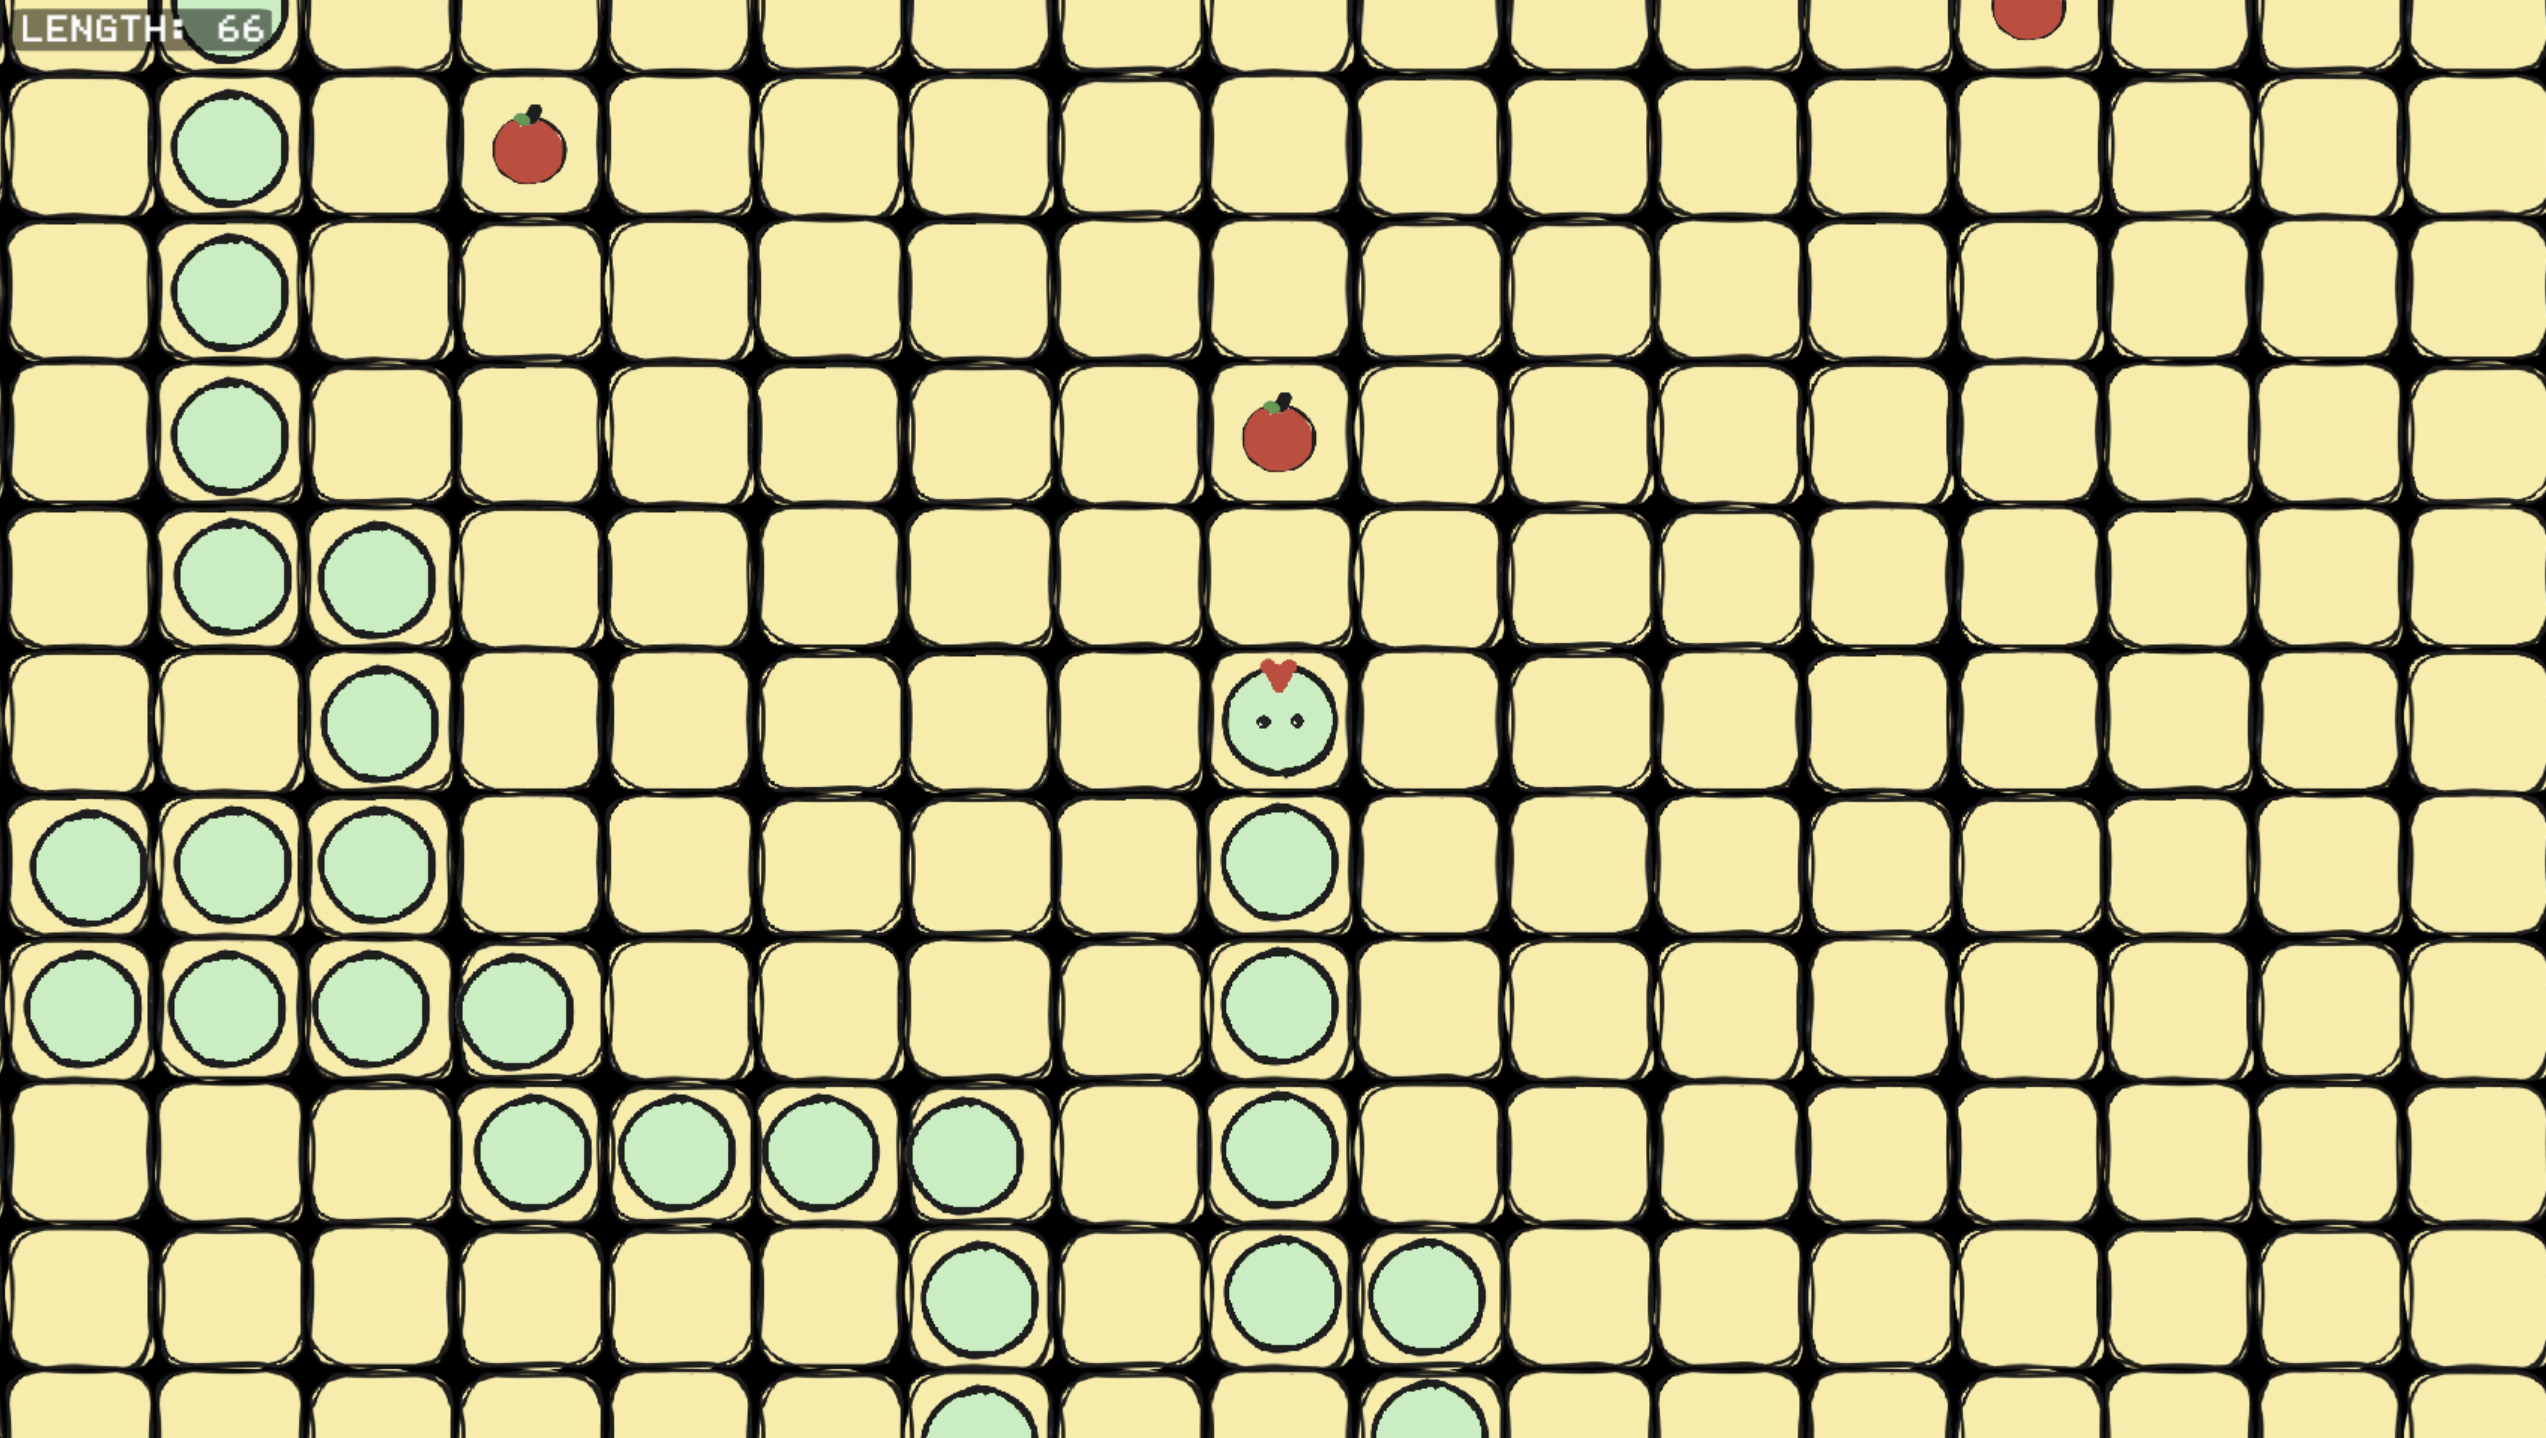
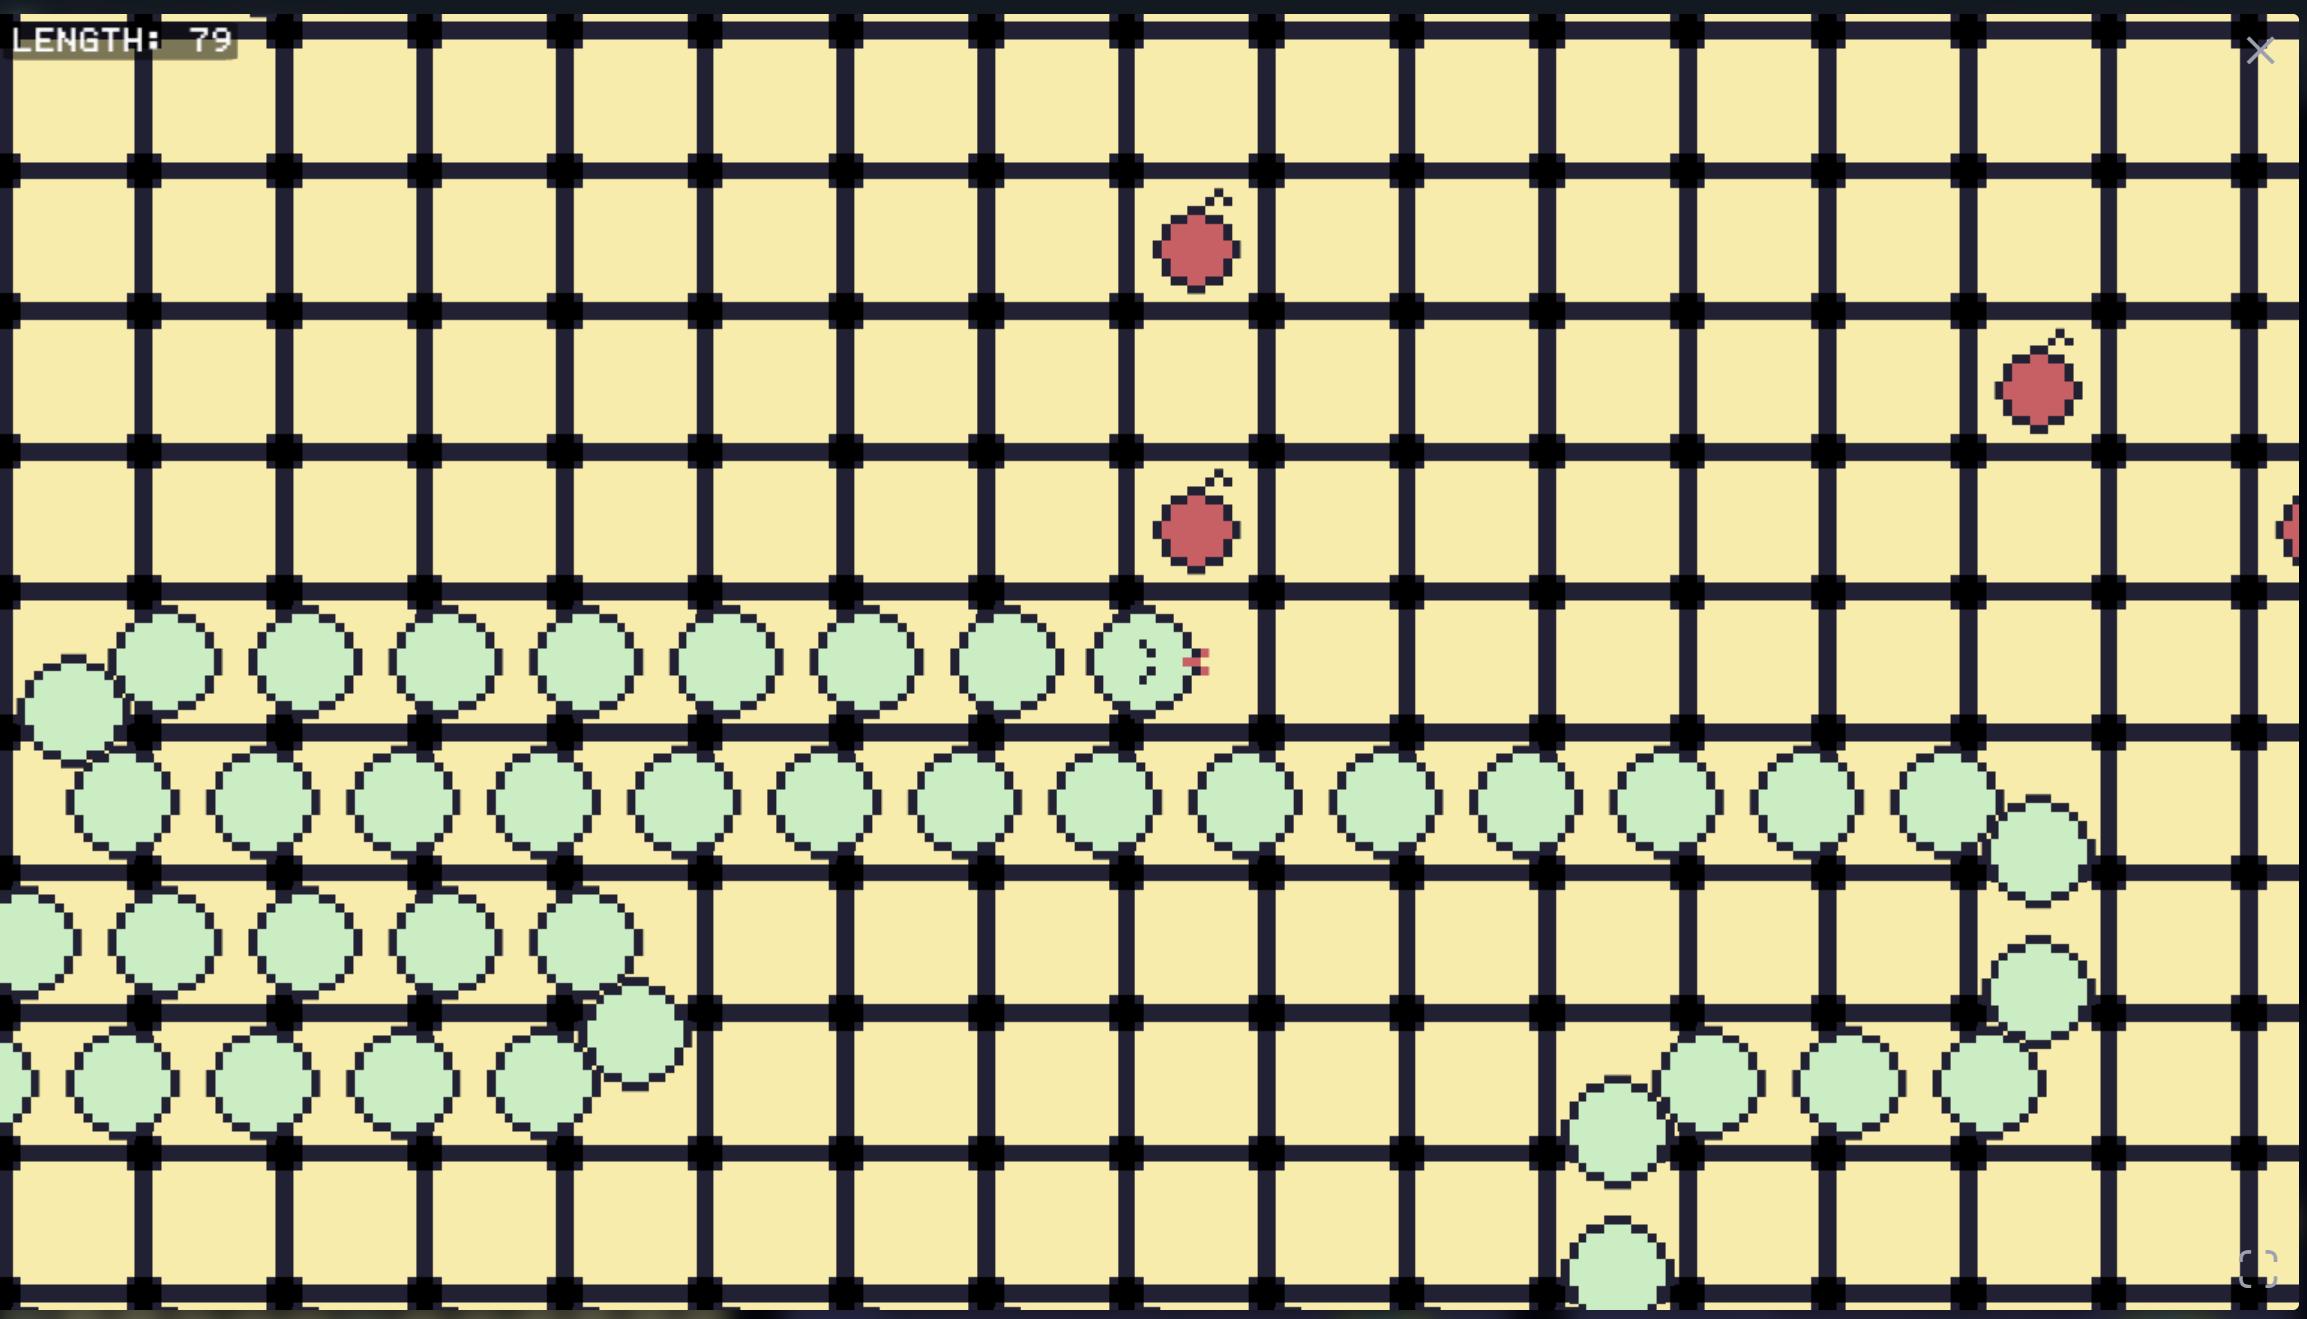
update

diff --git a/games/slither-slim/background-tiles.ts b/games/slither-slim/background-tiles.ts
@@ -1,6 +1,6 @@
 import * as PIXI from "pixi.js";
 import { ZLayer } from "./enum";
-import { BASE_PATH } from "./main";
+import { ASSET_SCALE, BASE_PATH } from "./main";
 
 export interface GameTiles {
    tiles: GameTile[];
@@ -12,11 +12,11 @@ export interface GameTiles {
 }
 
 interface CreateGameProps {
-   textures: PIXI.Texture[];
+   texture: PIXI.Texture;
    gridSize: { row: number; col: number };
 }
 
-export const createGameTiles = ({ gridSize, textures }: CreateGameProps): GameTiles => {
+export const createGameTiles = ({ gridSize, texture }: CreateGameProps): GameTiles => {
    const tiles: GameTile[] = [];
    const { row, col } = gridSize;
 
@@ -27,11 +27,9 @@ export const createGameTiles = ({ gridSize, textures }: CreateGameProps): GameTi
    });
 
    for (let i = 0; i < row * col; i++) {
-      const randomIndex = Math.floor(Math.random() * textures.length);
-      const texture = textures[randomIndex];
       const sprite = new PIXI.Sprite(texture);
 
-      sprite.scale.set(0.25);
+      sprite.scale.set(ASSET_SCALE);
       sprite.anchor.set(0.5, 0.5);
 
       const rowIdx = Math.floor(i / col);
@@ -112,10 +110,9 @@ const createGameTile = (sprite: PIXI.Sprite): GameTile => {
    return { sprite, getIndexPos };
 };
 
-export const loadTileTextures = async (): Promise<PIXI.Texture[]> => {
-   const arr = Array.from({ length: 5 });
-   const loadAsset = (str: string): Promise<PIXI.Texture> => PIXI.Assets.load(str);
-   const promises = arr.map((_, idx) => loadAsset(`${BASE_PATH}/box-${idx}.png`));
-   const assets = await Promise.all(promises);
-   return assets;
+export const loadTileTextures = async (): Promise<PIXI.Texture> => {
+   const assetPath = `${BASE_PATH}/game-tile.png`;
+   const texture = await PIXI.Assets.load(assetPath);
+   texture.source.scaleMode = "nearest";
+   return texture;
 };

diff --git a/games/slither-slim/apple.ts b/games/slither-slim/apple.ts
@@ -1,6 +1,6 @@
 import * as PIXI from "pixi.js";
 import { ZLayer } from "./enum";
-import { BASE_PATH } from "./main";
+import { ASSET_SCALE, BASE_PATH } from "./main";
 import type { Position } from "./types";
 
 export interface Apples {
@@ -17,7 +17,7 @@ export const createApples = (texture: PIXI.Texture): Apples => {
       const sprite = new PIXI.Sprite(texture);
       sprite.zIndex = ZLayer.bottom;
 
-      sprite.scale.set(0.15);
+      sprite.scale.set(ASSET_SCALE);
       sprite.anchor.set(0.5);
 
       sprite.x = pos.x;
@@ -65,6 +65,7 @@ export interface Apple {
 
 export const loadApples = async (): Promise<Apples> => {
    const appleAsset = await PIXI.Assets.load(`${BASE_PATH}/apple.png`);
+   appleAsset.source.scaleMode = "nearest";
    const apples = createApples(appleAsset);
    return apples;
 };

diff --git a/games/slither-slim/main.ts b/games/slither-slim/main.ts
@@ -17,6 +17,7 @@ import { type SnakeMovement, snakeMovementSystem } from "./system.snake-movement
 export const BASE_PATH = "game-imgs/slither-slim";
 
 let HIGH_SCORE = 0;
+export const ASSET_SCALE = 3.25;
 
 export const bus = eBus<EventMap>();
 
@@ -129,9 +130,9 @@ export const gameScene = (game: PIXI.ContainerChild, app: PIXI.Application): ISc
 
    return {
       load: async () => {
-         const tileTextures = await loadTileTextures();
+         const tileTexture = await loadTileTextures();
          gameTiles = createBackgroundTiles({
-            textures: tileTextures,
+            texture: tileTexture,
             gridSize: { row: 15, col: 20 },
          });
          gameTiles.tiles.map((t) => game.addChild(t.sprite));

diff --git a/games/slither-slim/snake.ts b/games/slither-slim/snake.ts
@@ -69,7 +69,7 @@ export const createSnake = (props: createSnakeProps): Snake => {
 
 export const loadSnakeTextures = async () => {
    const snakeHeadAsset: Promise<PIXI.Texture> = PIXI.Assets.load(`${BASE_PATH}/snake-head.png`);
-   const snakeDeadAsset: Promise<PIXI.Texture> = PIXI.Assets.load(`${BASE_PATH}/dead-snake.png`);
+   const snakeDeadAsset: Promise<PIXI.Texture> = PIXI.Assets.load(`${BASE_PATH}/snake-dead.png`);
    const segmentAsset: Promise<PIXI.Texture> = PIXI.Assets.load(`${BASE_PATH}/snake-body.png`);
    const assets = await Promise.all([snakeHeadAsset, snakeDeadAsset, segmentAsset]);
 

diff --git a/games/slither-slim/snake.segment.ts b/games/slither-slim/snake.segment.ts
@@ -1,5 +1,6 @@
 import * as PIXI from "pixi.js";
 import { ZLayer } from "./enum";
+import { ASSET_SCALE } from "./main";
 import type { Position } from "./types";
 
 export enum FaceDir {
@@ -36,7 +37,7 @@ export const createSegment = (texture: PIXI.Texture): SnakeSegment => {
    const sprite = new PIXI.Sprite(texture);
    sprite.zIndex = ZLayer.mid;
 
-   sprite.scale.set(0.2);
+   sprite.scale.set(ASSET_SCALE);
    sprite.anchor.set(0.5);
 
    const direction = {
